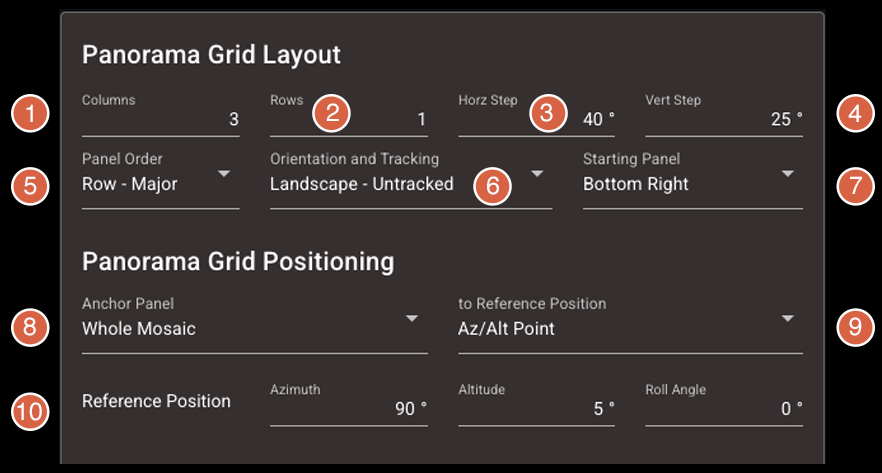
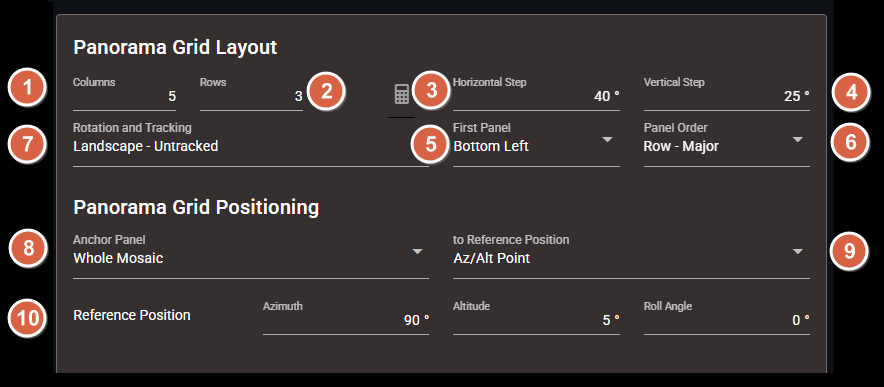
fix(pano): fixed nav panel to reflect first panel, refined dialog layout and docs, refined common function to convert panel# to row,col

diff --git a/pilot/src/components/PanoNavigation.vue b/pilot/src/components/PanoNavigation.vue
@@ -35,41 +35,57 @@ const cfg = useConfigStore()
 const panelGrid = computed(() => {
   const rows = Number(cfg.rows ?? 0)
   const cols = Number(cfg.cols ?? 0)
-  const order = Number(cfg.order ?? 0)
+  const total = rows * cols
+  if (rows <= 0 || cols <= 0)
+    return []
 
-  let n = 1
+  const first = Number(cfg.first ?? 0)
+  const order = Number(cfg.order ?? 0)
   const grid: number[][] = Array.from({ length: rows }, () =>
     Array(cols).fill(0)
   )
 
-  // grid Layout: 
-  // Row 0 = bottom Row (we reverse it in the HTML template to display it correctly)
-  // Column 0 = left Column
-
-  if (order === 0) {
-    // Row-major, bottom-up
-    for (let r = 0; r < rows; r++) {
-      const row = grid[r]
-      if (!row) continue
-      for (let c = 0; c < cols; c++) row[c] = n++
-    }
-  } else if (order === 1) {
-    // Column-major, bottom-up
-    for (let c = 0; c < cols; c++)
-      for (let r = 0; r < rows; r++) {
-        const row = grid[r]
-        if (row) row[c] = n++
+  // Critical function MUST MATCH panel_to_rc() in driver/polaris.py
+  function panelToRC(panel: number): [number, number] {
+    // Panel 0 means center of grid
+      if (panel === 0) {
+        return [ (rows - 1) / 2, (cols - 1) / 2 ]
       }
-  } else {
-    // Serpentine, bottom-up
-    for (let r = 0; r < rows; r++) {
-      const row = grid[r]
-      if (!row) continue
-      const cs = r % 2
-        ? [...Array(cols).keys()].reverse()
-        : [...Array(cols).keys()]
-      for (const c of cs) row[c] = n++
+    const i = panel - 1
+    let r = 0
+    let c = 0
+    // Apply Panel Order adjustment
+    if (order === 0) {          // row-major
+      r = Math.floor(i / cols)
+      c = i % cols
+    } else if (order === 1) {   // column-major
+      c = Math.floor(i / rows)
+      r = i % rows
+    } else {                    // serpentine
+      r = Math.floor(i / cols)
+      c = i % cols
+      if (r % 2 === 1)
+        c = cols - 1 - c
     }
+    // Apply First Panel adjustment
+    if (first === 0) {           // Top Left (mirrow row axis)
+      r = rows - 1 - r
+    } else if (first === 1) {     // Top Right (mirror row and col axis)
+      r = rows - 1 - r
+      c = cols - 1 - c
+    }
+    else if (first === 3) {       // Bottom Right (mirror col axis)
+      c = cols - 1 - c
+    }
+    return [r, c]
+  }
+
+  // create the grid
+  for (let p = 1; p <= total; p++) {
+    const [r, c] = panelToRC(p)
+    const row = grid[r]
+    if (!row) continue
+    row[c] = p
   }
   return grid
 })

diff --git a/pilot/src/components/PanoSettings.vue b/pilot/src/components/PanoSettings.vue
@@ -45,17 +45,8 @@
     </div>
     <div class="row q-col-gutter-lg items-center q-pt-lg">
       <q-select
-        class="col-3 q-pt-none"
-        label="Panel Order"
-        emit-value
-        map-options
-        v-model="cfg.order"
-        @update:model-value="(v) => putdb({ order: v })"
-        :options="panoOrderOptions"
-      />
-      <q-select
-        class="col-5 q-pt-none"
-        label="Orientation and Tracking"
+        class="col-6 q-pt-none"
+        label="Rotation and Tracking"
         emit-value
         map-options
         v-model="cfg.track"
@@ -63,13 +54,22 @@
         :options="panoTrackingOptions"
       />
       <q-select
-        class="col-4 q-pt-none"
-        label="Starting Panel"
+        class="col-3 q-pt-none"
+        label="First Panel"
         emit-value
         map-options
-        v-model="cfg.startpos"
-        @update:model-value="(v) => putdb({ startpos: v })"
+        v-model="cfg.first"
+        @update:model-value="(v) => putdb({ first: v })"
         :options="panoStartingPositionOptions"
+      />
+      <q-select
+        class="col-3 q-pt-none"
+        label="Panel Order"
+        emit-value
+        map-options
+        v-model="cfg.order"
+        @update:model-value="(v) => putdb({ order: v })"
+        :options="panoOrderOptions"
       />
     </div>
     <div class="text-h6 q-pt-lg">Panorama Grid Positioning</div>
@@ -182,7 +182,7 @@ import PanoCalculator from 'src/components/PanoCalculator.vue';
 
 const dev = useDeviceStore();
 const cfg = useConfigStore();
-// cfg properties {"cols":5, "rows":3, "hstep": 50, "vstep": 30, "order":2, "track":2, "anchor":3, "ref":0, "r1":180, "r2":30, "r3":10, "panel":2 }
+// cfg properties {"cols":5, "rows":3, "hstep": 50, "vstep": 30, "first":0, "order":2, "track":2, "anchor":3, "ref":0, "r1":180, "r2":30, "r3":10, "panel":2 }
 
 const panoTrackingOptions = [
   { label: 'Landscape - Untracked', value: 0 },
@@ -198,10 +198,10 @@ const panoOrderOptions = [
 ];
 
 const panoStartingPositionOptions = [
-  { label: 'Top Left', value: 'tl' },
-  { label: 'Top Right', value: 'tr' },
-  { label: 'Bottom Left', value: 'bl' },
-  { label: 'Bottom Right', value: 'br' },
+  { label: 'Top Left', value: 0 },
+  { label: 'Top Right', value: 1 },
+  { label: 'Bottom Left', value: 2 },
+  { label: 'Bottom Right', value: 3 },
 ];
 
 const panoRefTypeOptions = [

diff --git a/pilot/src/stores/config.ts b/pilot/src/stores/config.ts
@@ -51,15 +51,15 @@ export const useConfigStore = defineStore('config', {
     rows: 1,
     hstep: 40,
     vstep: 25,
-    track: 0,
+    first: 0,
     order: 0,
+    track: 0,
     anchor: 0,
     ref: 0,
     r1: 90,
     r2: 5,
     r3: 0,
     panel: 0,
-    startpos: 'br',
 
     // Advanced Features
     verbose_driver_exceptions: true,

diff --git a/driver/polaris.py b/driver/polaris.py
@@ -2290,12 +2290,12 @@ class Polaris:
         cols = getattr(Config, "cols", 3)
         hstep = getattr(Config, "hstep", 40.0)
         vstep = getattr(Config, "vstep", 25.0)
+        first = getattr(Config, "first", 0.0)  # panorama grid corner for panel 1
         order = getattr(Config, "order", 0)
         anchor = getattr(Config, "anchor", 0)
         ref_az = getattr(Config, "r1", 0.0)
         ref_alt = getattr(Config, "r2", 0.0)
         ref_roll = getattr(Config, "r3", 0.0)  # degrees
-        startpos = getattr(Config, "startpos", 'br') # Starting panel for panorama
 
         total_panels = rows * cols
         if panel < 1 or panel > total_panels:
@@ -2305,46 +2305,41 @@ class Polaris:
         if anchor < 0 or anchor > total_panels:
             anchor = 0  # default to center panel if invalid
 
-        # --- Build grid (row 0 = bottom, col 0 = left) ---
-        grid = [[0 for _ in range(cols)] for _ in range(rows)]
-        n = 1
-        if order == 0:  # row-major
-            for r in range(rows):
-                for c in range(cols):
-                    grid[r][c] = n
-                    n += 1
-        elif order == 1:  # column-major
-            for c in range(cols):
-                for r in range(rows):
-                    grid[r][c] = n
-                    n += 1
-        else:  # serpentine
-            for r in range(rows):
-                cs = list(range(cols))
+        # --- Critical function MUST MATCH panelToRC() in pilot/src/components/PanoNavigation.vue  ---
+        def panel_to_rc(p: int) -> tuple[float, float]:
+            if p == 0:          # Panel 0 means center of grid
+                return (rows - 1) / 2, (cols - 1) / 2            
+            i = p - 1
+            # Apply Panel Order adjustment
+            if order == 0:      # row-major
+                r = i // cols
+                c = i % cols
+            elif order == 1:    # column-major
+                c = i // rows
+                r = i % rows
+            else:               # serpentine
+                r = i // cols
+                c = i % cols
                 if r % 2 == 1:
-                    cs.reverse()
-                for c in cs:
-                    grid[r][c] = n
-                    n += 1
-
-        def find_panel(target: int) -> tuple[float, float]:
-            if target == 0:
-                return (rows - 1) / 2, (cols - 1) / 2
-            for r, row in enumerate(grid):
-                for c, val in enumerate(row):
-                    if val == target:
-                        return r, c
-            raise ValueError(f"Panel {target} not found in grid")
+                    c = cols - 1 - c
+            # Apply First Panel adjustment 
+            if first == 0:      # Top Left (mirrow row axis)
+                r = rows - 1 - r
+            elif first == 1:    # Top Right (mirror row and col axis)
+                r = rows - 1 - r
+                c = cols - 1 - c
+            elif first == 3:    # Bottom Right (mirror col axis)
+                c = cols - 1 - c
+            # return calculated row,col position
+            return r, c
 
         # --- Panel positions ---
-        panel_row, panel_col = find_panel(panel)
-        ref_row, ref_col = find_panel(anchor)
+        panel_row, panel_col = panel_to_rc(panel)
+        ref_row, ref_col = panel_to_rc(anchor)
 
         # --- Grid-space deltas ---
-        # Rotate to the right if starting from the left side of the grid, otherwise rotate to the left
-        dx = (panel_col - ref_col) * hstep if startpos[1] == 'l' else -1 * (panel_col - ref_col) * hstep # right
-        # Rotate up if starting from the bottom row of the grid, otherwise rotate down
-        dy = (panel_row - ref_row) * vstep if startpos[0] == 'b' else -1 * (panel_row - ref_row) * vstep # up
+        dx = (panel_col - ref_col) * hstep
+        dy = (panel_row - ref_row) * vstep 
 
         # --- Apply boresight roll ---
         roll_rad = math.radians(ref_roll)

diff --git a/docs/pilot.md b/docs/pilot.md
@@ -971,12 +971,26 @@ Changes made in Alpaca Pilot immediately update the active panorama grid in the 
 
 - **④ Vertical Step `"vstep":`**  Angular distance, in **decimal degrees**, between the centres of adjacent vertical panels. Factor in FOV overlap.
 
-- **⑤ Panel Order `"order":`** Defines the sequence in which panels are captured:
+- **⑤ First Panel `"first":`** Defines which corner of the panorama grid is assigned panel number 1. This determines where the capture sequence begins and, together with the **Panel Order ("order")** setting, controls the rotational step direction in which the panorama progresses. 
+
+   * **0 – Top Left**: Panel 1 is located in the top row and leftmost column.
+   * **1 – Top Right**: Panel 1 is located in the top row and rightmost column.
+   * **2 – Bottom Left**: Panel 1 is located in the bottom row and leftmost column.
+   * **3 – Bottom Right**: Panel 1 is located in the bottom row and rightmost column.
+
+   Selecting the correct first panel is important when photographing moving sky targets. Since celestial objects change position over time due to Earth’s rotation, the capture sequence should be planned to preserve critical details. For example:
+
+   * When capturing a **Milky Way arch** later in the season, you may want to begin with the **top row** to capture the galactic center before it rises too high in the sky. You can then capture the lower row before those same targets move out of optimal framing.
+   * For single-row panoramas, it is still advisable to choose the first panel based on the direction of sky movement. In the Northern Hemisphere, when capturing a Milky Way arch, starting on the **right side** of the grid can help prevent Earth’s rotation from moving the galactic center beyond the rightmost panels before they are captured.
+
+
+
+- **⑥ Panel Order `"order":`** Defines the sequence in which panels are captured:
    * **0 – Row‑Major**: Complete each row before moving to the next row.
    * **1 – Column‑Major**:  Complete each column before moving to the next column.
    * **2 – Serpentine**:  Alternate direction on each row or column to minimise repositioning time.
 
-- **⑥ Orientation and Tracking `"track":`** Defines how the mount tracks and how camera roll is handled **after moving to each panel**:
+- **⑦ Rotation and Tracking `"track":`** Defines how the mount tracks and how camera roll is handled **after moving to each panel**:
    * **0 – Landscape · Untracked**: Tracking is disabled. The camera frame remains fixed relative to the horizon.
    *Use for foreground or landscape panels where star motion is acceptable.*
    * **1 – Sky · Horizon‑Locked**: Sidereal tracking is enabled. The camera roll is reset to **0°** at each panel.
@@ -985,12 +999,6 @@ Changes made in Alpaca Pilot immediately update the active panorama grid in the 
    *Use for astronomical sky mosaics such as large DSOs.*
    * **3 – Sky · Orbital**: Tracking and camera roll are left unchanged.
    *Use for mosaics centred on tracked orbitals.*
-
-- **⑦ Starting Panel `"startpos":`** Defines the first panel to be captured when starting the panorama capture sequence.  This determines the rotational direction in conjunction with the panel order ("order") parameter.  *In general, it is useful to select the starting panel based on the direction of movement of your sky targets along with their altitude, especially for multiple rows in the panorama capturing the sky.  For example, to capture a Milky Way arch later in the year, you may want to start with your top row to capture the detail of the galactic center before it gets too high in the sky and then shoot the row below it before those celestial bodies are too high in the sky. For panoramas with only a single row of panels for the sky, it is still a good idea to select a starting panel based on the direction of movement.  For example, in the Northern Hemisphere to capture a Milky Way arch panorama you should likely start with a panel on the right side of the grid to ensure the earth's rotation does not move the galactic center beyond your right-most panels.*
-   * **Top Left**: This will start the panorama sequence from the panel in the left most column and top row.  
-   * **Top Right**: This will start the panorama sequence from the panel in the right most column and top row.
-   * **Bottom Left**: This will start the panorama sequence from the panel in the left most column and bottom row.
-   * **Bottom Right**: This will start the panorama sequence from the panel in the right most column and bottom row. 
 
 - **⑧ Anchor Panel `"anchor":`** Specifies which part of the panorama is placed at the reference position. The **Anchor Panel** and **Reference Position** work together to shift the entire panorama grid to your desired orientation:
    * **0 – Whole Mosaic**:  The entire panorama is centred on the reference position.
@@ -1011,7 +1019,10 @@ Changes made in Alpaca Pilot immediately update the active panorama grid in the 
    * **Reference Axis 2 `"r2":`**: Altitude or Declination (decimal degrees)
    * **Reference Axis 3 `"r3":`**: Roll or Position Angle (decimal degrees)
 
+- **Panel Navigation:** The Panel Navigation grid provides a visual representation of the panorama layout and allows you to click any panel number to slew the mount directly to that position. The grid follows the panorama layout convention where the **bottom-left panel represents the lowest Altitude and lowest Azimuth**. As you move **to the right**, Azimuth increases; as you move **upward**, Altitude increases. The numbering and progression reflect the selected First Panel and Panel Order settings, while symbols indicate the next panel in the capture sequence and the anchor panel tied to the reference position.
+ 
 - **Current Panel: `"panel":`** This represents the active Panel Number being captured and is highlighted in blue on the Panel Navigation grid. This field effects what the next panel in sequence will be.
+
 
 ### 2.2 Defining the Grid Programatically
 
@@ -1044,7 +1055,7 @@ To capture a foreground pass without tracking while retaining the previous grid 
 
 As a reference, the following JSON Parameters example shows all available fields that can be set using the `Polaris:PanoGrid` device action. In practice, you would typically specify only the parameters you need to change.
 ```
-{ "cols":3, "rows":2, "hstep":40, "vstep":30, "order":2, "track":0, "anchor":1, "ref":0, "r1":90, "r2":5, "r3":0, "panel":0 }
+{ "cols":3, "rows":2, "hstep":40, "vstep":30, "first":0, "order":2, "track":0, "anchor":1, "ref":0, "r1":90, "r2":5, "r3":0, "panel":0 }
 ```
 #### **Using CCDCeil Sequencer**
 To define a Panorama Grid in CCDCeil, you could use its Sequence Tool and add a Script Step that sends the `Polaris:PanoGrid` device action and parameters to the Alpaca Driver.
